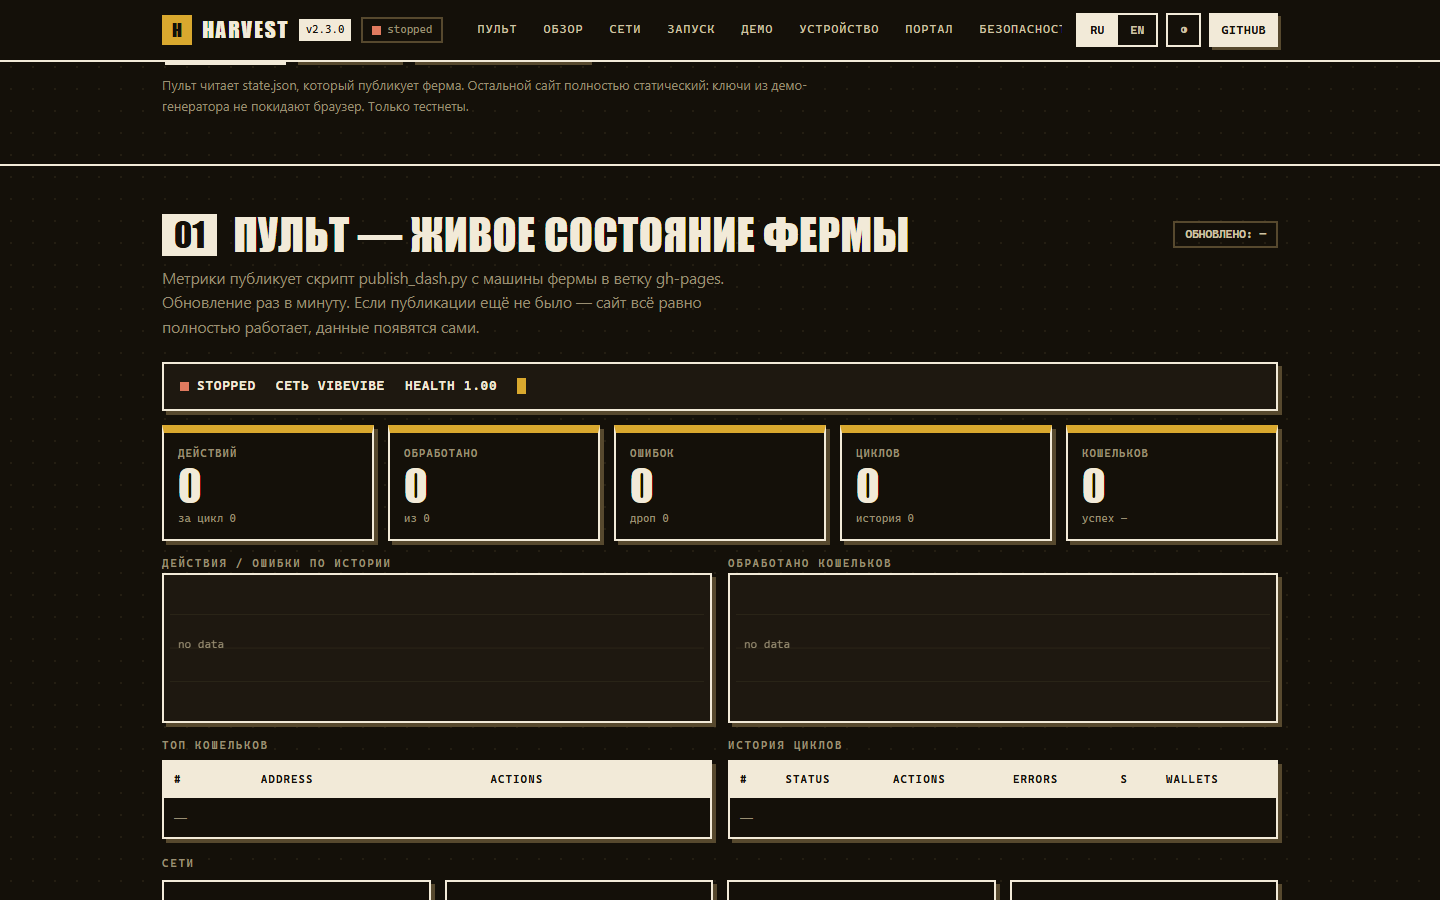
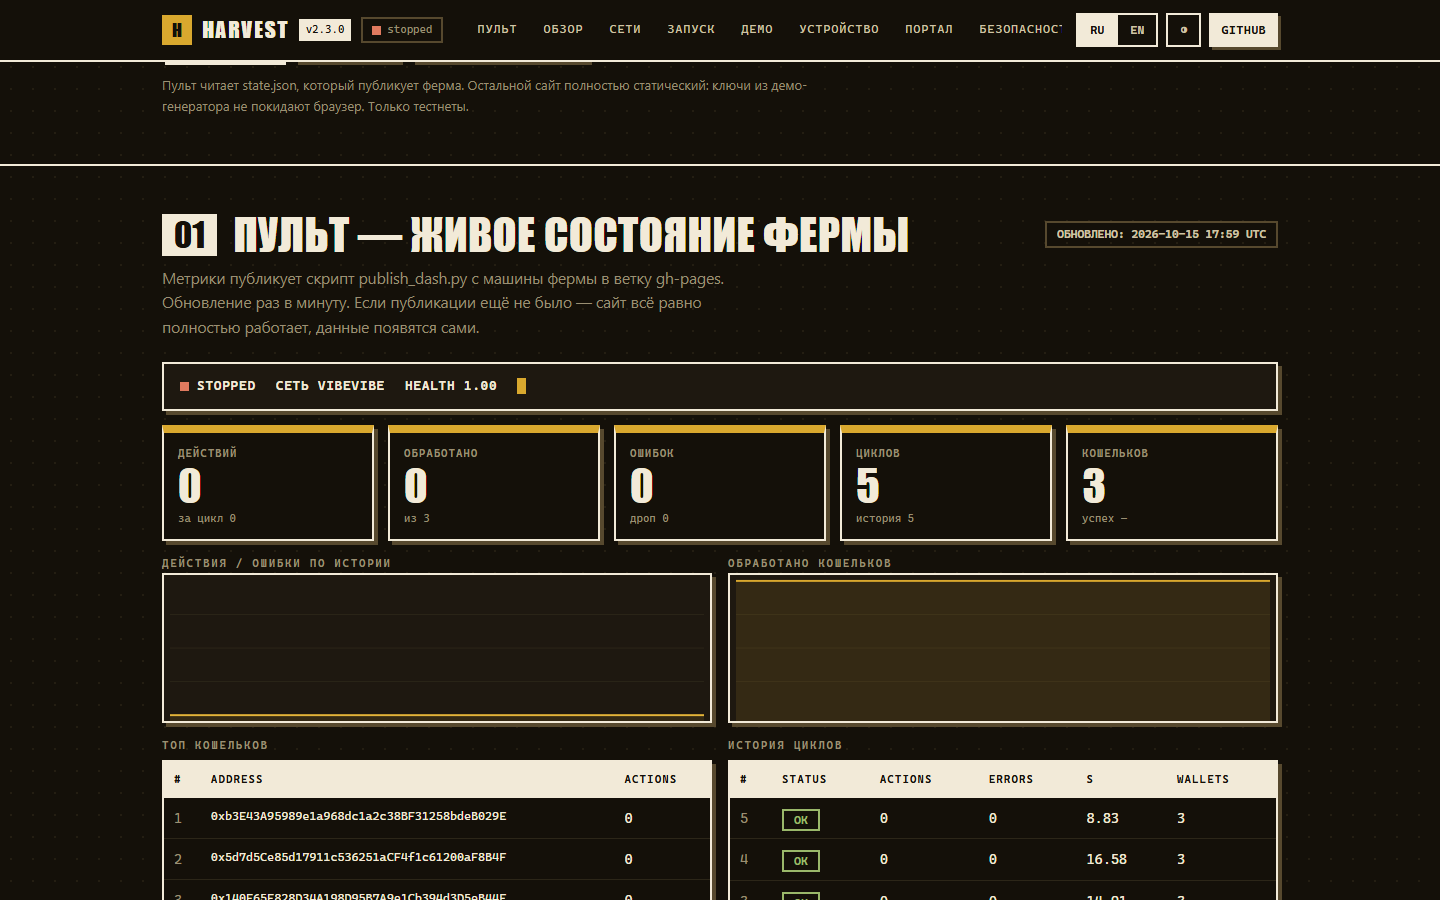
docs(site): nav wraps below 1500px

diff --git a/docs/assets/site.css b/docs/assets/site.css
@@ -53,7 +53,7 @@ nav.main{display:flex;gap:2px;margin-left:8px;overflow-x:auto;scrollbar-width:no
 nav.main a{font-family:var(--mono);font-size:12px;text-transform:uppercase;letter-spacing:.08em;text-decoration:none;color:var(--ink-2);padding:7px 10px;white-space:nowrap;border:2px solid transparent}
 nav.main a:hover{border-color:var(--ink)}
 .top-actions{margin-left:auto;display:flex;gap:8px;align-items:center}
-@media(max-width:1220px){
+@media(max-width:1500px){
   .topbar-in{flex-wrap:wrap;row-gap:8px}
   nav.main{order:3;flex-basis:100%;margin-left:0}
   .topbar .btn.primary{display:none}
